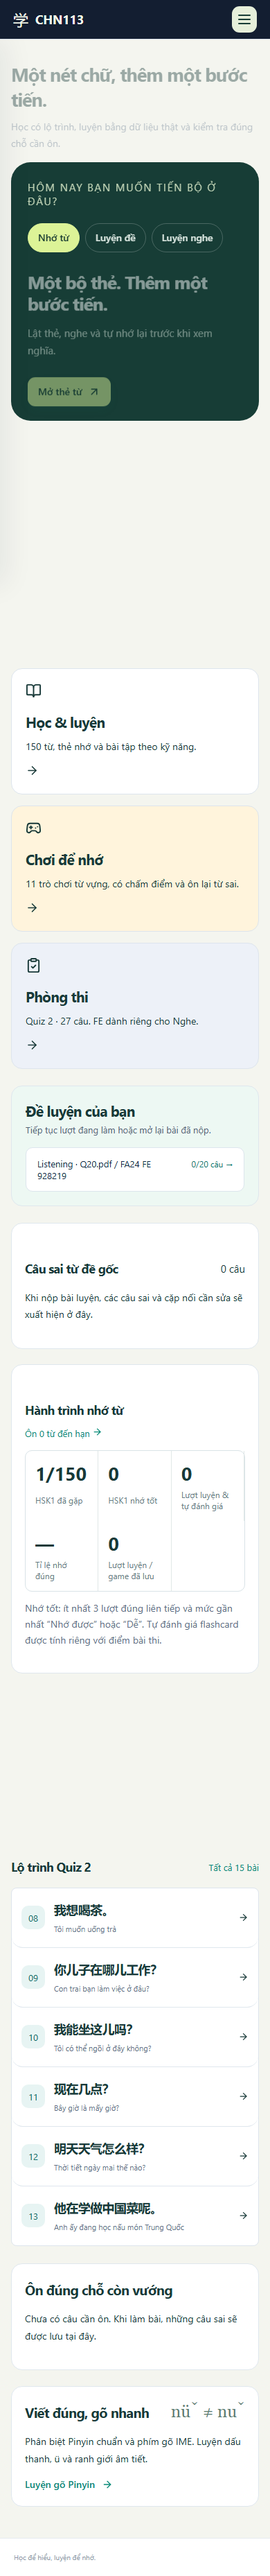
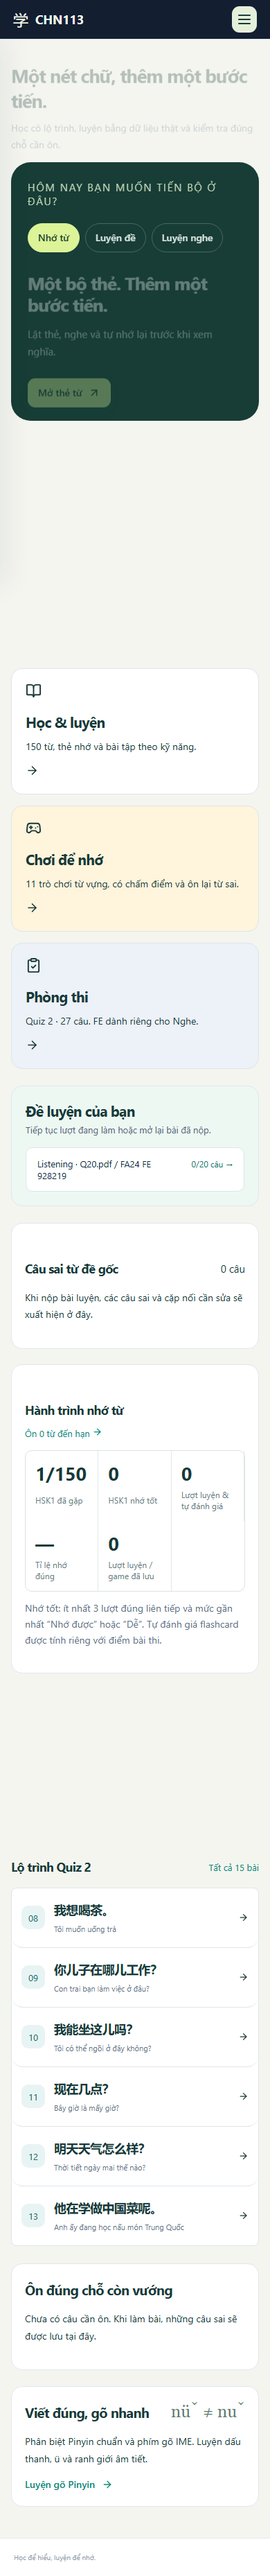
Record packaged production verification

diff --git a/reports/FINAL_QA_REPORT.md b/reports/FINAL_QA_REPORT.md
@@ -7,7 +7,7 @@
 - Playwright desktop + iPhone-sized Chromium: 66/68 passed initially. Two failures were an incorrect matching-row test expectation (expected 6, actual correct result 3). After correcting that assertion, both affected cases passed. All 68 distinct cases have passing evidence; no claim of a single all-green 68-case rerun.
 - 52 game cases cover all 11 games, score behavior, completion/replay, pause, timer, IME, rapid input and persistence. Spelling Bee TTS is mocked for deterministic game state tests; this does not prove speaker output on every device.
 - Speaking capture/playback tested with Chromium fake microphone input. Physical microphone quality and pronunciation recognition are not tested or claimed.
-- Production build passed. Vite reports a >500 kB raw main chunk; gzip about137 kB. Media is loaded on demand.
+- Production build passed. Vite reports a >500 kB raw main chunk; gzip about195 kB in the standalone public build (137 kB main plus separate vendor/content chunks in the local pages-mode build). Media is loaded on demand.
 - All156 unique bundled MP3s decoded through Chromium AudioContext, with nonzero waveform; FE audio clock advanced during actual playback. Details in public-runtime-validation.json.
 - Production route render/reload checks, image checks on visited routes, mobile overflow, game start: see runtime JSON.
 - Screenshots captured for dashboard desktop/mobile, flashcard, matching/result, writing, speaking, FE, Quiz2, libraries, lobby and gameplay. Visual inspection led to fixes for mobile menu and game HUD contrast.
